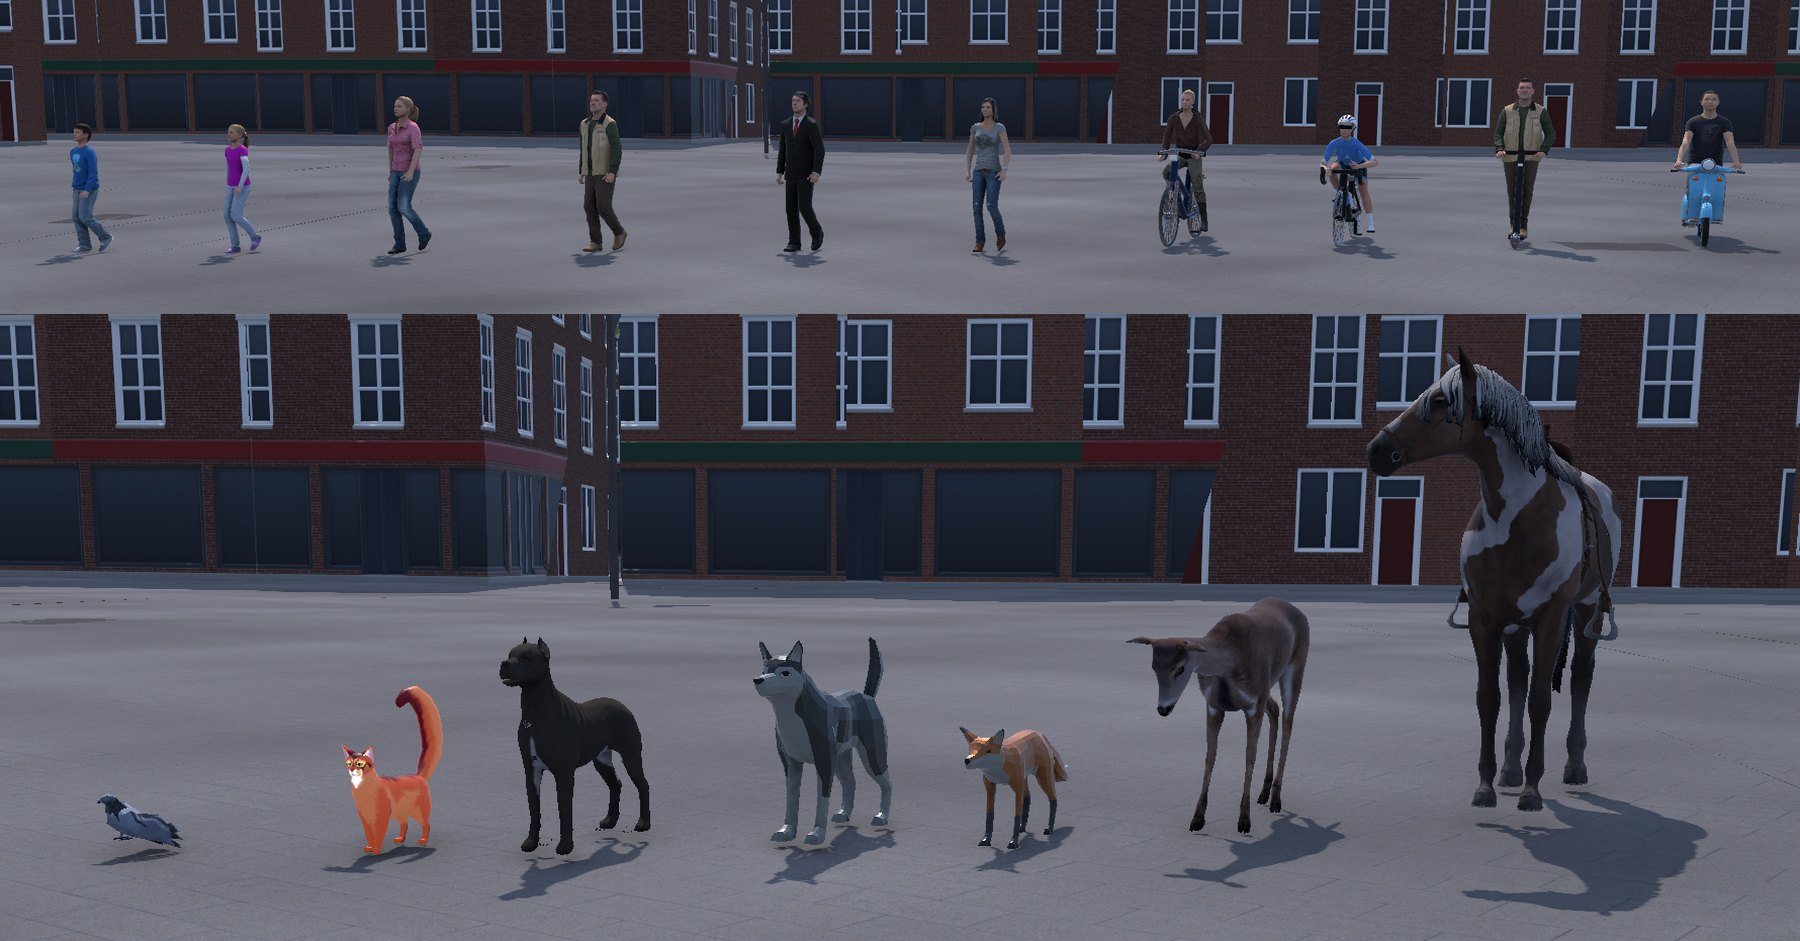
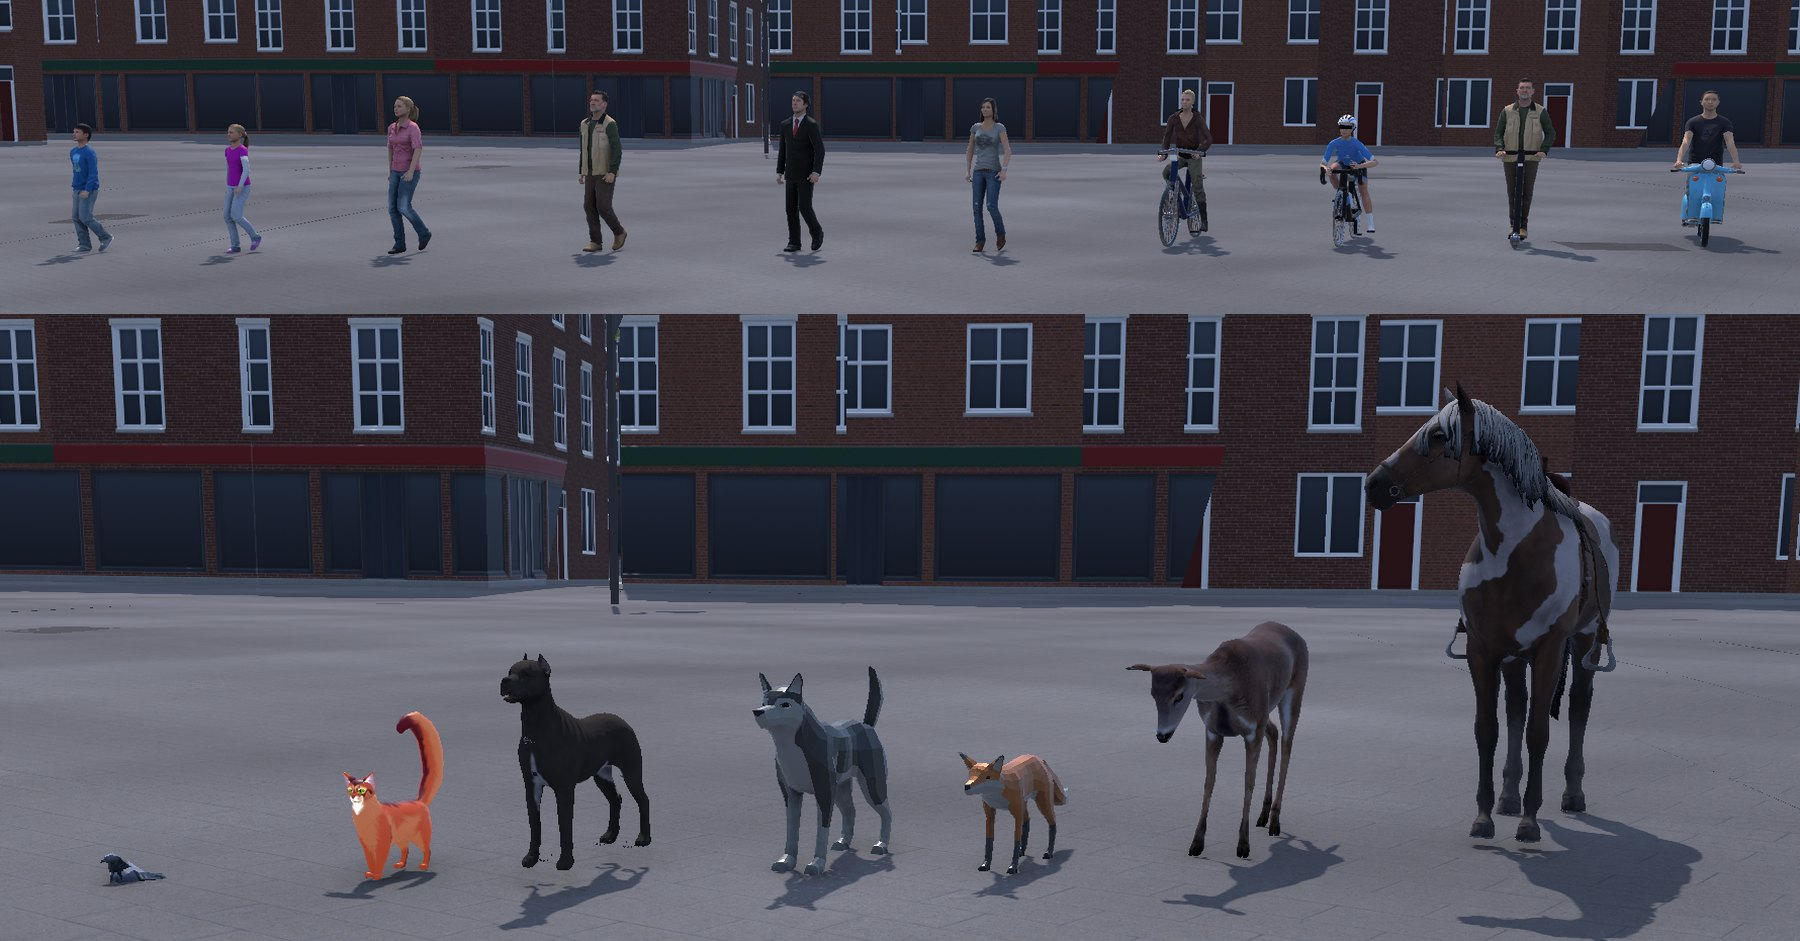
Animals on the ground in still shots and line-ups; off canals' water
- The line-up removes every script from its objects, the animals' grounding
  too, so their models kept the hover they were built with (set on the ground
  in their walk): the dog, husky, fox and deer stood a few centimetres over
  their shadows in the README's agents picture. The line-up now puts each
  animal's lowest point, as posed, on the ground.
- AnimalAgent.KeepFeetOnGround runs only for animals in view and eases in;
  a still shot's camera sees them only when it is taken. GroundNow() grounds
  an animal at once, and the smoke test calls it before the still shots.
- Animals stopped at water or a drop of more than 0.4 m ahead, and are not
  placed on water: a cat walked off a canal's quay in Delft and stood on the
  water.
- agents.jpg and animals.jpg rendered again.

diff --git a/Assets/Scripts/Animals/AnimalAgent.cs b/Assets/Scripts/Animals/AnimalAgent.cs
@@ -105,12 +105,17 @@ public class AnimalAgent : MonoBehaviour
     /// on screen, its mesh as it is posed now is measured and the model moved by what puts its lowest vertex on the
     /// ground under the animal, eased in. Not in flight, and kept while it runs (a gallop has the feet off the ground).
     /// </summary>
-    void KeepFeetOnGround()
+    /// <summary>Its lowest point on the ground at once, seen or not (a still shot's camera sees it only when it is taken:
+    /// animals in the README's pictures stood over their shadows).</summary>
+    public void GroundNow() { _nextGround = 0f; KeepFeetOnGround(true); }
+
+    void KeepFeetOnGround() => KeepFeetOnGround(false);
+    void KeepFeetOnGround(bool now)
     {
         if (_model == null || _skins == null || _skins.Length == 0 || Time.time < _nextGround) return;
         _nextGround = Time.time + 0.3f;
         if (Current == State.Fly || Current == State.Run || _hop) return;
-        bool seen = false;
+        bool seen = now;
         foreach (var sk in _skins) if (sk != null && sk.isVisible) { seen = true; break; }
         if (!seen) return;
         if (_baked == null) _baked = new Mesh();
@@ -126,9 +131,9 @@ public class AnimalAgent : MonoBehaviour
         if (low == float.MaxValue) return;
         // (the body's offset from the ground, kept within 0.3 m: a wrong reading, as a mesh part far off, moves nothing much)
         float want = Mathf.Clamp(_groundFix + (transform.position.y - low), -0.3f, 0.3f);
-        float step = want - _groundFix;
-        _groundFix += step * 0.6f;
-        _model.position += Vector3.up * (step * 0.6f);
+        float step = (want - _groundFix) * (now ? 1f : 0.6f);
+        _groundFix += step;
+        _model.position += Vector3.up * step;
     }
 
     void Think(float dt)
@@ -216,7 +221,7 @@ public class AnimalAgent : MonoBehaviour
         var look = Quaternion.LookRotation(dir, Vector3.up);
         transform.rotation = Quaternion.Slerp(transform.rotation, look, 1f - Mathf.Exp(-dt * 8f));
         var next = transform.position + transform.forward * _speed * dt;
-        if (Current != State.Fly && Blocked(transform.position, next + transform.forward * 0.5f))
+        if (Current != State.Fly && (Blocked(transform.position, next + transform.forward * 0.5f) || DropAhead(next + transform.forward * 0.3f)))
         {
             Current = State.Idle;
             _stateTimer = 1f;
@@ -228,6 +233,15 @@ public class AnimalAgent : MonoBehaviour
     }
 
     static Vector3 Flat(Vector3 v) { v.y = 0; return v; }
+
+    /// <summary>Water, or the ground more than 0.4 m lower, just ahead: a quay's edge (a cat walked off a canal's quay
+    /// in Delft and stood on the water).</summary>
+    bool DropAhead(Vector3 p)
+    {
+        if (!Physics.Raycast(p + Vector3.up * 1.5f, Vector3.down, out var hit, 4f, ~0, QueryTriggerInteraction.Ignore)) return true;
+        if (hit.collider.transform.IsChildOf(transform)) return false;
+        return hit.collider.name.StartsWith("Water", System.StringComparison.Ordinal) || hit.point.y < _groundY - 0.4f;
+    }
 
     bool Ground(Vector3 p, out float y)
     {

diff --git a/Assets/Editor/SmokeTest.cs b/Assets/Editor/SmokeTest.cs
@@ -460,6 +460,8 @@ public static class SmokeTest
         int shot = _shotsDone, viewIndex = -1;
         int viewLogStart = sb.Length;
         sb.Append(_viewLog);
+        // (the animals' feet on the ground for the still cameras, which they were not in view of until now)
+        foreach (var an in AnimalAgent.All) if (an != null) an.GroundNow();
         // extra views: -smokeShot "x,y,z,yaw,pitch;x,y,z,yaw,pitch", "chase" (behind the participant) or "front" (ahead, looking back),
         // "cluster" (the instrument cluster, see ClusterView)
         foreach (var view in SessionState.GetString(KeyShot, "").Split(new[] { ';' }, StringSplitOptions.RemoveEmptyEntries))
@@ -968,6 +970,22 @@ public static class SmokeTest
             }
             float ground = Physics.Raycast(at + Vector3.up * 20f, Vector3.down, out var hit, 40f, ~0, QueryTriggerInteraction.Ignore) ? hit.point.y : t.position.y;
             go.transform.position = new Vector3(at.x, ground + (drone ? 1.2f : 0f), at.z);
+            // (an animal with its lowest point, as posed, on the ground: its script, which does that on the map
+            // (AnimalAgent.KeepFeetOnGround), is gone, and the models were set on the ground in their walk; standing,
+            // the dog, husky, fox and deer stood a few centimetres over their shadows in the README's line-up)
+            if (name.StartsWith("animal:"))
+            {
+                var baked = new Mesh(); float low = float.MaxValue;
+                foreach (var sk in go.GetComponentsInChildren<SkinnedMeshRenderer>())
+                {
+                    if (!sk.enabled || sk.sharedMesh == null) continue;
+                    sk.BakeMesh(baked, true);
+                    var m = sk.transform.localToWorldMatrix;
+                    foreach (var v in baked.vertices) low = Mathf.Min(low, m.MultiplyPoint3x4(v).y);
+                }
+                UnityEngine.Object.DestroyImmediate(baked);
+                if (low < float.MaxValue && Mathf.Abs(low - ground) < 0.3f) go.transform.position += Vector3.up * (ground - low);
+            }
             placed.Add(go);
         }
         UnityEngine.Object.Destroy(holder);

diff --git a/Assets/Scripts/Animals/AnimalSpawner.cs b/Assets/Scripts/Animals/AnimalSpawner.cs
@@ -136,6 +136,8 @@ public class AnimalSpawner : MonoBehaviour, IExperimentModifier
                 // (not on a building: on a hillside a flat roof down the slope is lower than the participant, and a dog and a
                 // husky walked about on the roofs in São Paulo)
                 && !OnBuilding(hit.collider)
+                // (nor on a canal's water, below the quay)
+                && !hit.collider.name.StartsWith("Water", System.StringComparison.Ordinal)
                 && !Physics.CheckCapsule(hit.point + Vector3.up * 0.45f, hit.point + Vector3.up * 1.2f, 0.4f, ~0, QueryTriggerInteraction.Ignore)
                 // (not on top of a wall, a hedge or a bus shelter, with ground under it more than 0.3 m lower: a fox was
                 // placed on a garden wall's top)

diff --git a/README.md b/README.md
@@ -1125,7 +1125,7 @@ Every experiment has an `AnimalSpawner` (child object `Animals`) that places ani
 
 The experiment parameter `animals` multiplies the numbers per trial (`0` = no animals, `2` = twice as many); `animalMix=Horse:1,Deer:1,Pigeon:6` picks the species and their numbers; `animalRole=1` places them around that role's spawn point (e.g. the pedestrian's) and in its sight, not behind a building or a garden wall; `animalRadius=30` within that many metres, and `animalAhead=12` around a point that far ahead of it, where a participant walking or riding off will meet them (the walking video in Boulder above meets all seven species this way). Positions and states are logged to `ExperimentLogs/Animals-{date}.csv` (time, animal, species, position, heading, state). The dog (a pit bull), cat, pigeon, deer (a doe) and horse are realistic animated models from Sketchfab (CC BY 4.0, [credits](Assets/ThirdParty/Animals/CREDITS.md)); the husky and the fox are low-poly CC0 animals by Quaternius, as no realistic animated ones are free. Each is scaled to a real body length in its walking pose, with walk, run, idle and eating (and for pigeons flying) animations; where a model's walk carries the body forward, `RootMotionLock` holds it in place (the animal agent does the moving); `Coupled Sim` ➡ `Animals` ➡ `Build prefabs and add to experiments` (`AnimalPrefabBuilder`) rebuilds the prefabs.
 
-![Animals on the city maps: a dog in Ghent, with pigeons behind it (left), and a cat in Delft (right); all the animals are in the line-up under Agents at a glance](ReadmeFiles/animals.jpg)
+![Animals on the city maps: a dog in Ghent (top left); a dog, a cat and a fox in Delft; all the animals are in the line-up under Agents at a glance](ReadmeFiles/animals.jpg)
 
 ### Time of day and weather
 Every experiment has an `EnvironmentController` (child object `Environment (time of day, weather)`) that sets:
